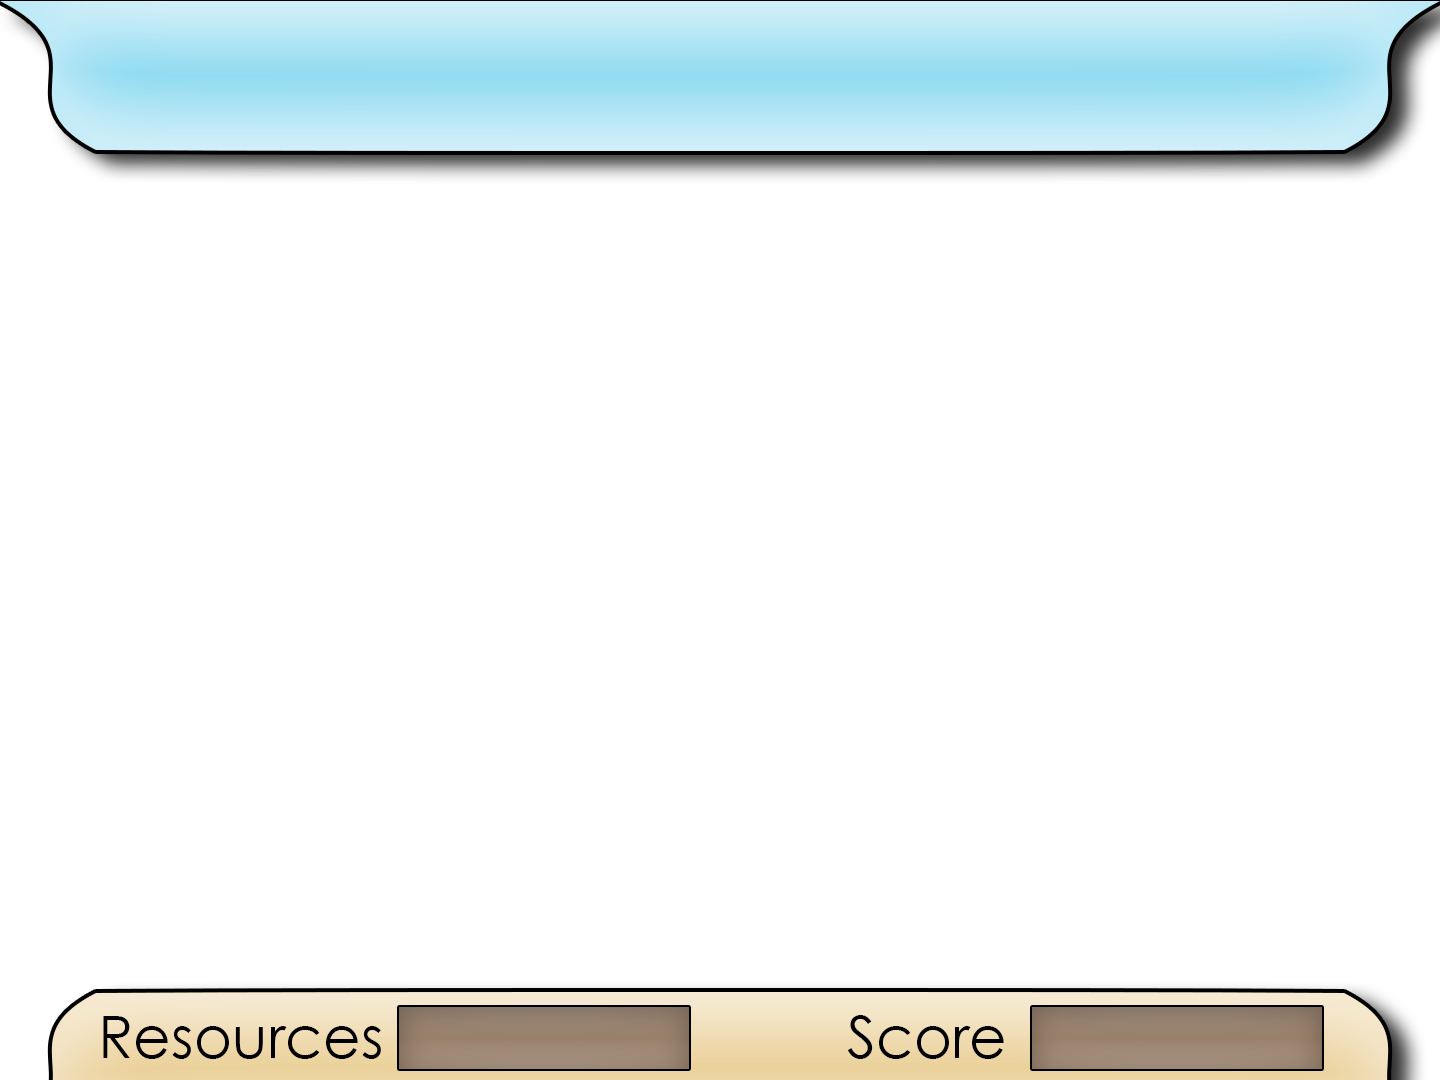
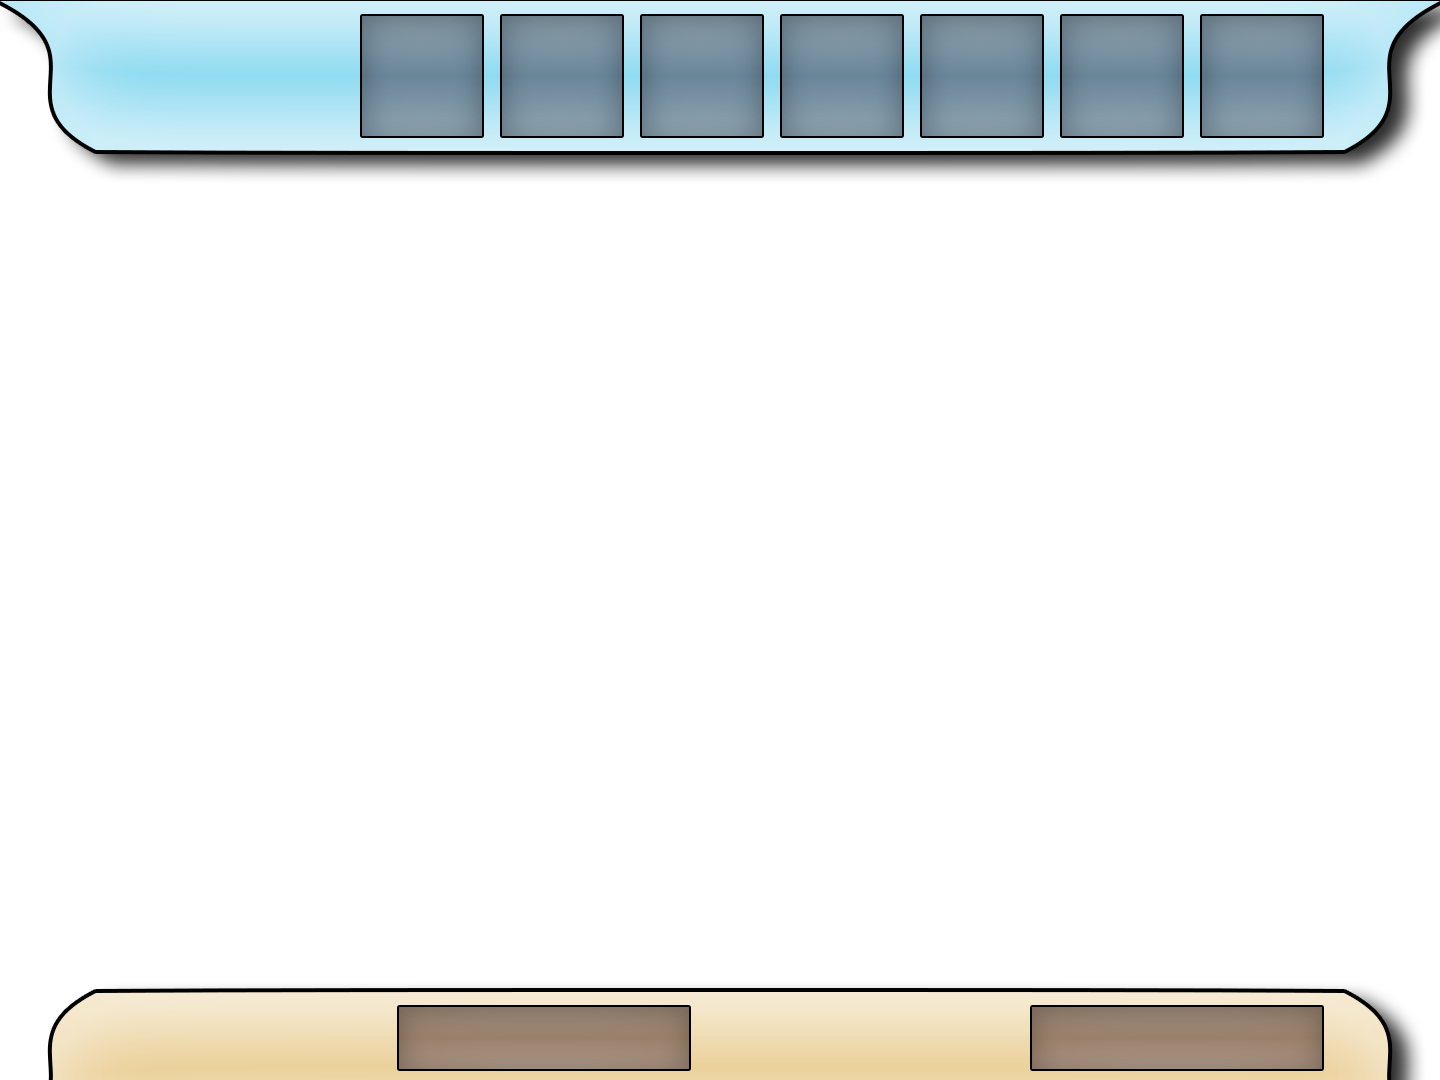
Fixed Score Timer and updated HUD Background.

Changed region(s): [[0.25, 0.0, 0.9375, 0.1528], [0.0625, 0.9472, 0.2812, 0.9778], [0.5938, 0.9472, 0.7188, 0.9778]]

diff --git a/core/src/com/project/alien/screens/GameScreen.java b/core/src/com/project/alien/screens/GameScreen.java
@@ -89,9 +89,9 @@ public class GameScreen extends AbstractScreen {
                 RESOURCES += Consts.RESOURCE_GAIN_AMT;
             }
 
-            if (SCORETIMER > Consts.RESOURCE_GAIN_TIME) {
+            if (SCORETIMER > Consts.SCORE_GAIN_TIME) {
                 SCORETIMER -= Consts.SCORE_GAIN_TIME;
-                SCORE += Consts.RESOURCE_GAIN_AMT;
+                SCORE += Consts.SCORE_GAIN_AMT;
 
                 // Stage Multiplier function
                 // SCORE += Consts.RESOURCE_GAIN_AMT * STAGEMULTIPLIER;

diff --git a/core/src/com/project/alien/utils/Consts.java b/core/src/com/project/alien/utils/Consts.java
@@ -7,6 +7,6 @@ public class Consts {
     public static final Vector2 WORLD_GRAVITY = new Vector2(0, -10);
     public static final int RESOURCE_GAIN_AMT = 5;
     public static final float RESOURCE_GAIN_TIME = 3.0f;
-    public static final int SCORE_GAIN = 1;
+    public static final int SCORE_GAIN_AMT = 1;
     public static final float SCORE_GAIN_TIME = 1.5f;
 }
